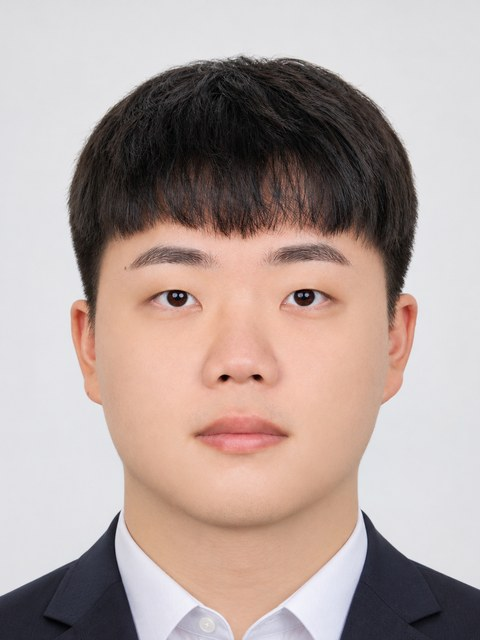
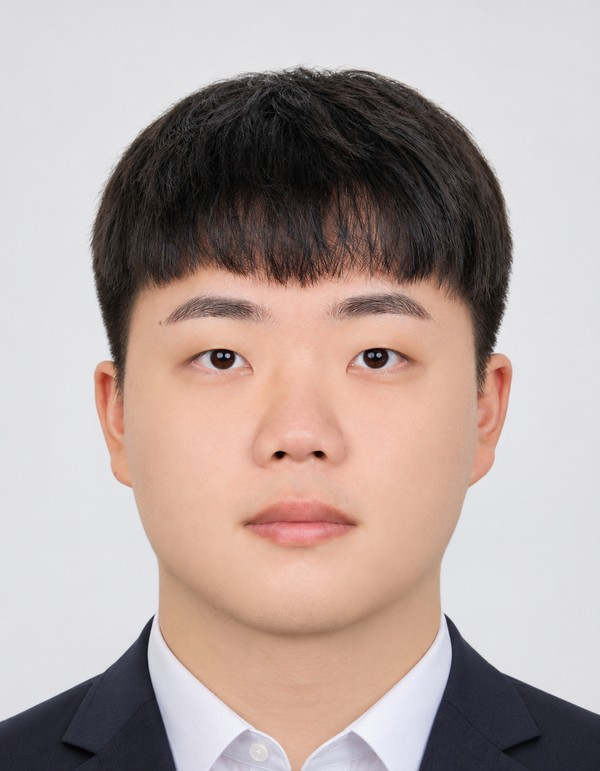
학생 사진을 원본 그대로 사용, 표시 크기는 동일하게 고정
Claude-Session: https://claude.ai/code/session_01GunyspYH86SV26aYyFUBWV

diff --git a/assets/style.css b/assets/style.css
@@ -133,7 +133,7 @@ footer .wrap{display:flex;justify-content:space-between;gap:12px;flex-wrap:wrap}
 
 /* student cards */
 .member{background:#fff;border:1px solid var(--line);border-radius:14px;overflow:hidden}
-.member img{display:block;width:100%;aspect-ratio:3/4;object-fit:cover;object-position:center top;background:#e8ecf8}
+.member img{display:block;width:100%;aspect-ratio:3/4;object-fit:cover;object-position:center;background:#e8ecf8}
 .member .info{padding:16px 18px 18px}
 .member h3{font-size:18px}
 .member h3 small{font-size:13.5px;color:var(--ink-3);font-weight:500;margin-left:6px}
